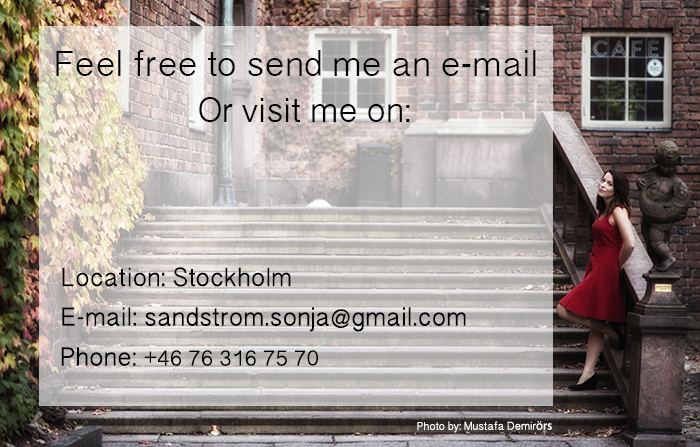
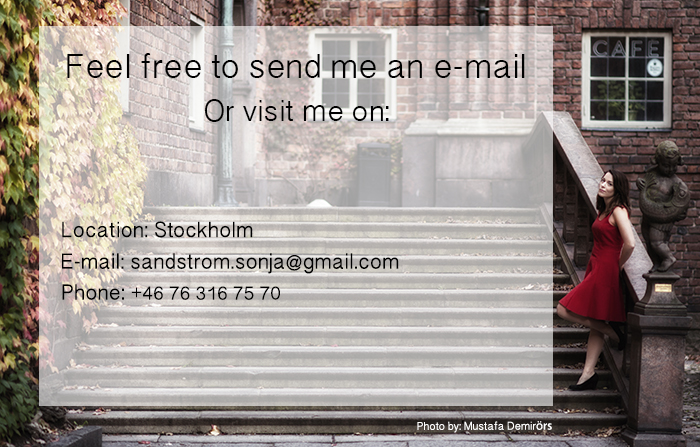
update2.4

diff --git a/clients.html b/clients.html
@@ -1,6 +1,5 @@
 <!DOCTYPE html PUBLIC "-//W3C//DTD XHTML 1.0 Transitional//EN" "http://www.w3.org/TR/xhtml1/DTD/xhtml1-transitional.dtd">
 <html xmlns="http://www.w3.org/1999/xhtml">
-
 <head>
 <meta http-equiv="Content-Type" content="text/html; charset=utf-8" />
 <title>Sonja Sandstrom Photography</title>
@@ -43,9 +42,7 @@
 	position:absolute;
 	width: 1000px;
 	height: 600px;
-	margin: 0;
-    position: absolute;
-    top: 250px;
+    top: 280px;
     left: -500px;
 }
 #center {
@@ -53,20 +50,10 @@
 	width: 0px;
 	height: 0px;
 	margin: 0;
-    position: absolute;
     left: 50%;
 }
-#mess {
-	position:absolute;
-	width: 200px;
-	height: 40px;
-	top: 665px;
-	left: -250px;
-}
--->
 </style>
 </head>
-
 
 <body>
 <div id=center>
@@ -74,11 +61,10 @@
 <div id="menu1"><a href="gallery.html"><img src="bilder/gallery.png" border="0" /></a></div>
 <div id="menu2"><a href="contact.html"><img src="bilder/contact.png" border="0" /></a></div>
 <div id="menu3"><a href="prints.html"><img src="bilder/prints.png" border="0" /></a></div>
-<div id="Content">
-<img src="bilder/buy.png" border="0" />
-</div>
-<div id="mess"><a href="contact.html"><img src="bilder/mess.png" border="0" /></a></div>
 
+<div id="Content">
+<img src="bilder/fc.jpg" border="0" />
+</div>
 </div>
 <h1> Site under construction</h1>
 </body>

diff --git a/contact.html b/contact.html
@@ -89,6 +89,13 @@
     top: 420px;
 	left: 270px;
 }
+#former {
+	position:absolute;
+	width: 50px;
+	height: 50px;
+    top: 613px;
+	left: -120px;
+}
 body {
  font-family:'Tahoma', 'Verdana';
 }
@@ -132,6 +139,8 @@ input, textarea, select {
 <div id="flickr"><a href="https://www.flickr.com/photos/sonjas-photography"><img src="bilder/flickr.png" border="0" /></a></div>
 
 <div id="vimeo"><a href="https://vimeo.com/user8520199"><img src="bilder/vim.png" border="0" /></a></div>
+
+<div id="former"><a href="clients.html"><img src="bilder/clients.png" border="0" /></a></div>
 
 </div>
 <h1> Site under construction</h1>
